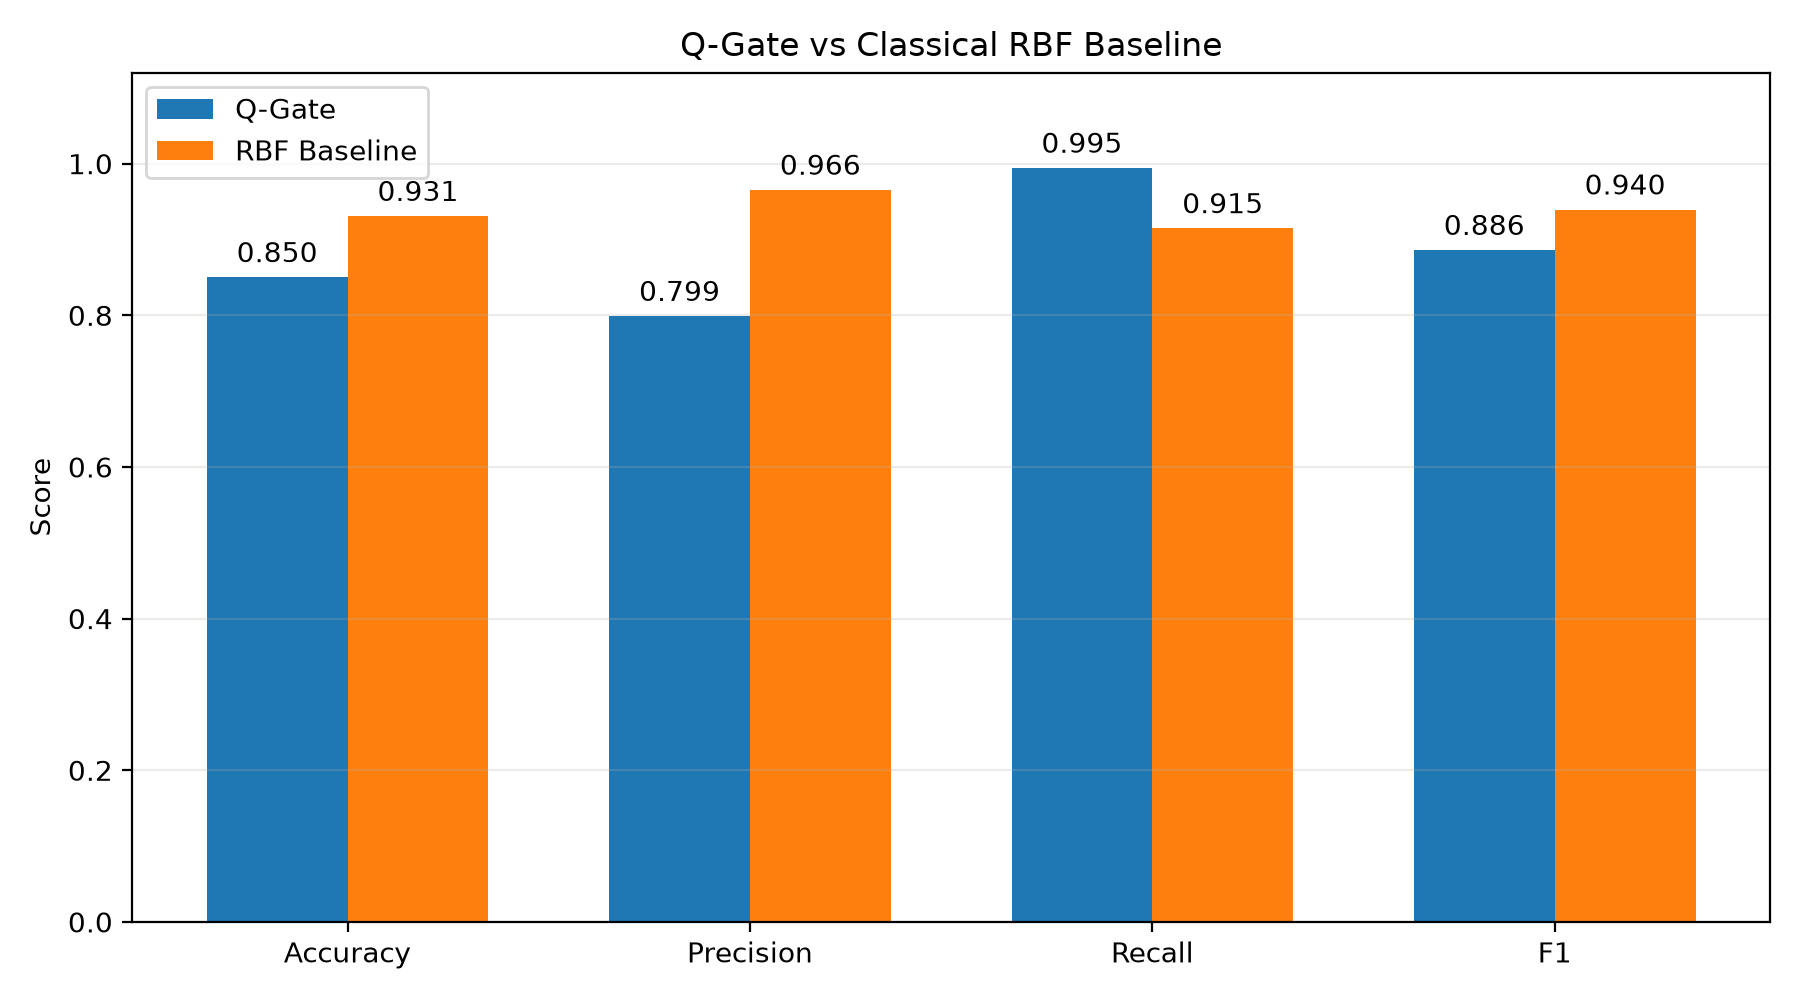
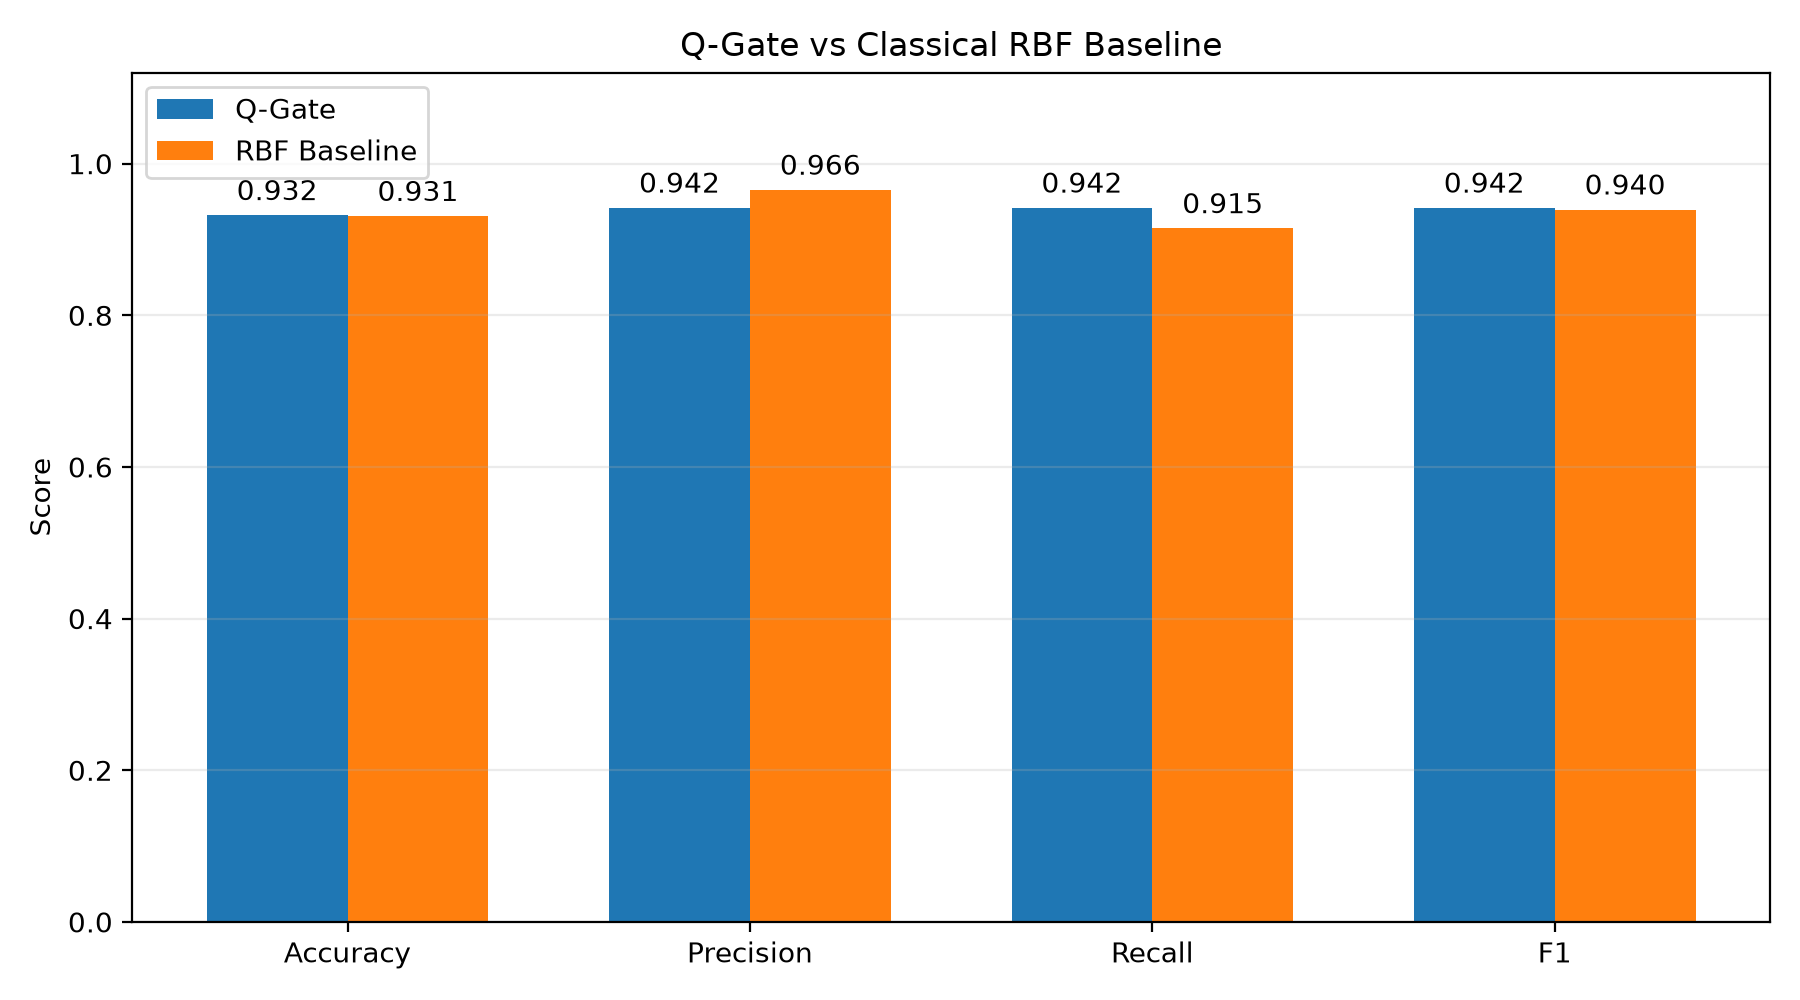
[M1] Redraw bar chart and confusion matrices for M3's 4,096-sample run (RBF baseline rescored on the same test split); ROC unchanged

diff --git a/scripts/plot_qgate_reported.py b/scripts/plot_qgate_reported.py
@@ -1,0 +1,42 @@
+"""[M1] Redraw the bar chart and confusion matrices for the largest reported Q-Gate run
+(results/qgate_hf_training_<N>.json), next to the classical RBF baseline scored on the same test split with
+M3's validation threshold. Uses M3's own plotting functions; the ROC curve is left unchanged.
+
+Run: python -m scripts.plot_qgate_reported"""
+import json
+from pathlib import Path
+
+import joblib
+import numpy as np
+import pandas as pd
+
+from aegis.qgate.baseline_rbf import RBFBaseline
+from scripts.evaluate_qgate_final import RBF_THRESHOLD, evaluate, sigmoid
+from scripts.plot_qgate_final import plot_benchmark_metrics, plot_confusion_matrices
+
+RESULTS, MODELS, DATA = Path("results"), Path("models"), Path("data/hf_prompt_injection")
+
+
+def main():
+    runs = sorted(RESULTS.glob("qgate_hf_training_*.json"), key=lambda p: int(p.stem.rsplit("_", 1)[-1]))
+    path = runs[-1]
+    run = json.loads(path.read_text(encoding="utf-8"))
+    q = run["qgate"]
+    if "rbf_baseline" not in run:
+        test = pd.read_csv(DATA / "test.csv")
+        X = joblib.load(MODELS / "qgate_rbf_hf_8d_embedder.joblib").transform(test["text"].astype(str).tolist())
+        scores = sigmoid(RBFBaseline.load(MODELS / "qgate_rbf_hf.joblib").score(X))
+        run["rbf_baseline"], _ = evaluate(test["label"].astype(int).to_numpy(), scores, RBF_THRESHOLD)
+        path.write_text(json.dumps(run, indent=2), encoding="utf-8")
+    report = {"qgate": {"accuracy": q["accuracy"], "precision": q["precision"], "recall": q["recall"],
+                        "f1": q["test_f1"], "confusion_matrix": q["confusion_matrix"]},
+              "rbf_baseline": run["rbf_baseline"]}
+    plot_benchmark_metrics(report)
+    plot_confusion_matrices(report)
+    print(f"redrew benchmark_metrics.png and confusion_matrices.png from {path.name}")
+    print("RBF baseline:", {k: round(v, 4) for k, v in run["rbf_baseline"].items() if isinstance(v, float)},
+          run["rbf_baseline"]["confusion_matrix"])
+
+
+if __name__ == "__main__":
+    main()
